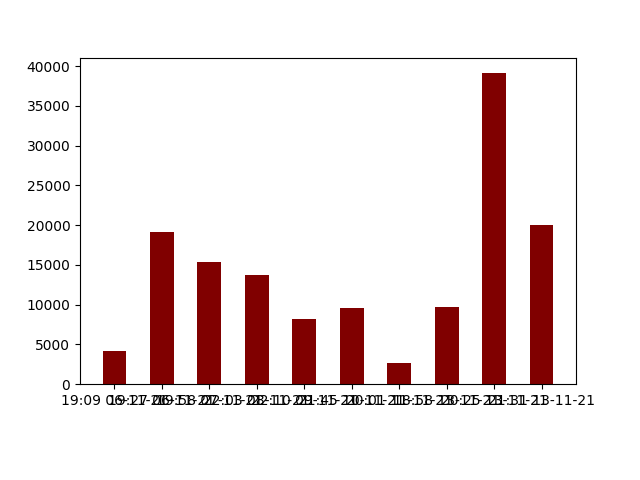
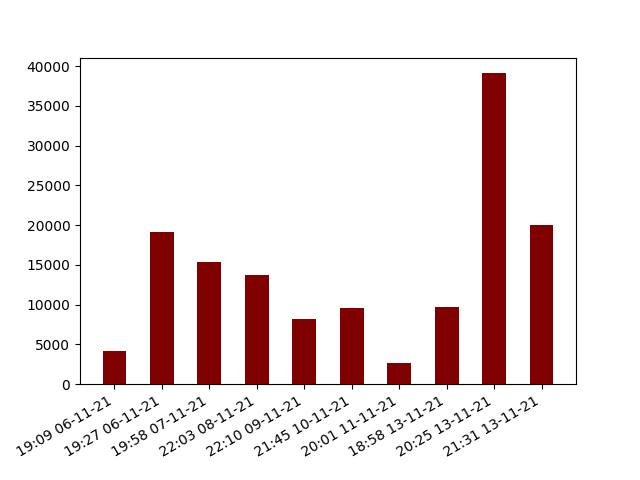
:zap: Date formatting on damage chart

diff --git a/src/cogs/riot_api_utilities/vego_tracker.py b/src/cogs/riot_api_utilities/vego_tracker.py
@@ -313,9 +313,10 @@ Informacje ofensywne```
             )
 
         figure = plt.figure()
+
+        plt.bar(matches_dates[::-1], damage_stats[::-1], color="maroon", width=0.5)
         # Rotate x labels by 30 degrees
         figure.autofmt_xdate(ha="right")
-        plt.bar(matches_dates[::-1], damage_stats[::-1], color="maroon", width=0.5)
 
         pil_image = self.__figure_to_image(figure)
         pil_image.save("test.png")
@@ -331,7 +332,9 @@ Informacje ofensywne```
         return embed
 
     @commands.command(
-        name="damage", description="Show the damage done in last 10 games"
+        name="damage",
+        description="Show the damage done in last 10 games",
+        aliases=["dmg"],
     )
     async def _damage(self, ctx, *summoner):
         summoner = " ".join(summoner)

diff --git a/src/main.py b/src/main.py
@@ -8,8 +8,8 @@ load_dotenv()
 
 TOKEN = os.getenv("DISCORD_TOKEN")
 
-bot = commands.Bot(command_prefix="Czerwony ", case_insensitive=False)
-# bot = commands.Bot(command_prefix="Bialy ", case_insensitive=False)
+# bot = commands.Bot(command_prefix="Czerwony ", case_insensitive=False)
+bot = commands.Bot(command_prefix="Bialy ", case_insensitive=False)
 
 bot.load_extension("cogs.utils.weather")
 bot.load_extension("cogs.steam.steam")
